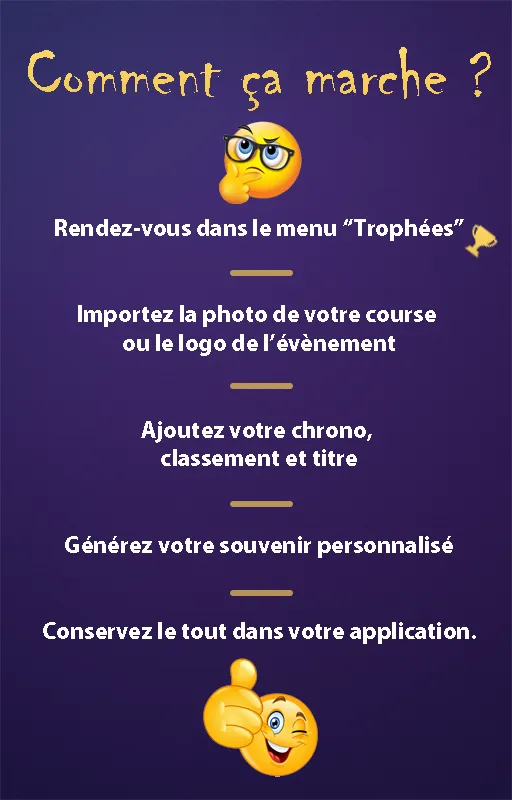
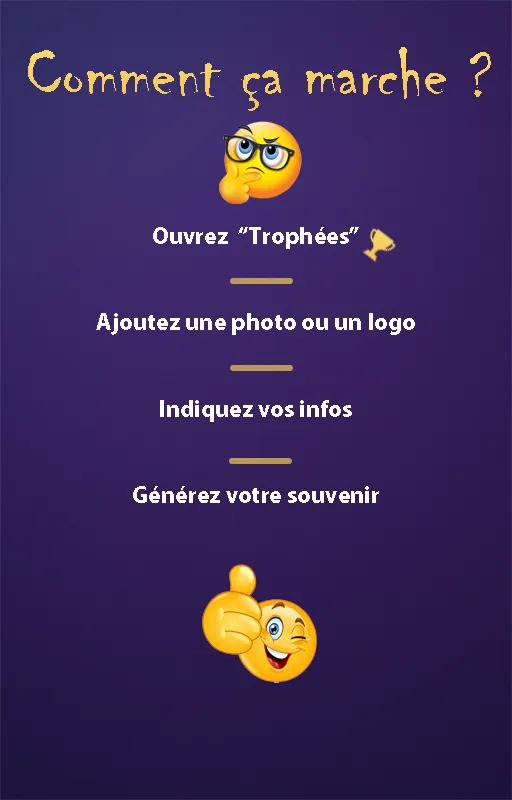
Retrait commentaire memory et modification image updateinfor

Changed region(s): [[0.0625, 0.25, 0.9688, 0.9688]]

diff --git a/MonSuiviSportif/scripts/memory.js b/MonSuiviSportif/scripts/memory.js
@@ -8,7 +8,6 @@ let canvasMemoryRef = null,
     selectMemoryRoundReachRef = null,
     inputCBMemoryRankRef = null,
     inputCBMemoryRoundReachRef = null,
-    texteareaMemoryCommentRef = null,
     inputDurationMemoryHoursRef = null,
     inputDurationMemoryMinutesRef = null,
     inputDurationMemorySecondsRef = null,
@@ -21,7 +20,7 @@ let canvasMemoryRef = null,
     memoryScaleStep = 0.1, // pas de zoom
     memoryZoomSize = 512, // taille du crop
     isMemoryImageLoaded = false,
-    maxMemory = 10,//le nombre maximal de souvenir
+    maxMemory = 10,//Nbre maximal de souvenir. Peut monter à 20 sans problème, mais chargement dans le menu reward un peu plus long. 
     memoryCardInstanceList = {},
     memoryCardKeysList = [];
 
@@ -265,7 +264,6 @@ function onInitMemoryItems() {
     inputMemoryDateStartRef = document.getElementById('inputMemoryDateStart');
     inputMemoryDateEndRef = document.getElementById("inputMemoryDateEnd");
     inputMemoryTitleRef = document.getElementById('inputMemoryTitle');
-    texteareaMemoryCommentRef = document.getElementById('textareaMemoryComment');
     inputCBMemoryRankRef = document.getElementById('inputCBMemoryRank');
     inputCBMemoryRoundReachRef = document.getElementById('inputCBMemoryRoundReach');
     inputMemoryRankRef = document.getElementById("inputMemoryRank");
@@ -677,7 +675,6 @@ function onClickGenerateMemory() {
         title: titleUpper,
         date: date,
         imageData: finalImage,
-        comment: texteareaMemoryCommentRef.value
     };
 }
 
@@ -1103,7 +1100,6 @@ function onResetMemoryItems() {
     inputMemoryDateEndRef.value = null;
     inputMemoryTitleRef.value = null;
     inputImageMemoryRef.value = null;
-    texteareaMemoryCommentRef.value = null;
     inputDurationMemoryHoursRef.value = "";
     inputDurationMemoryMinutesRef.value = "";
     inputDurationMemorySecondsRef.value = "";
@@ -1126,7 +1122,6 @@ function onResetMemoryItems() {
     inputMemoryDateStartRef = null;
     inputMemoryDateEndRef = null;
     inputMemoryTitleRef = null;
-    texteareaMemoryCommentRef = null;
     memoryImageItem = null;
     inputCBMemoryRankRef = null;
     inputCBMemoryRoundReachRef = null;

diff --git a/MonSuiviSportif/index.html b/MonSuiviSportif/index.html
@@ -1363,14 +1363,7 @@
                                 </button>
                             </div>
                         </div>
-                    </div>
-
-                    <!-- Commentaire -->
-                    <p>
-                        <label for="">Commentaire : </label>
-                        <textarea name="" id="textareaMemoryComment" maxlength="100"></textarea>
-                    </p>
-                    
+                    </div>                    
                 </div>
 
                 <!-- Prévisualisation -->
